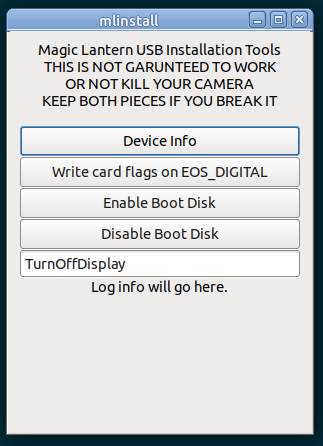
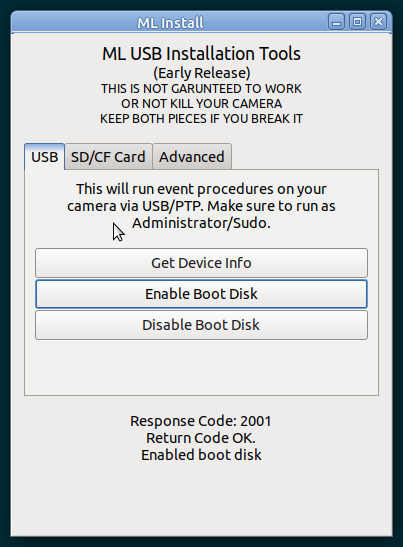
Add some text and update screenshot

Changed region(s): [[0.0, 0.0, 0.9907, 0.991], [0.3096, 0.7578, 0.6811, 0.8453]]

diff --git a/gtk.c b/gtk.c
@@ -149,6 +149,7 @@ static void deviceinfo(GtkWidget *widget, gpointer data)
 
 	logprint(buffer);
 
+	// Test model detector
 	printf("model_get() = %d\n", model_get(info.Model));
 
 	close_camera(&ptp_usb, &params, dev);
@@ -262,6 +263,14 @@ int main(int argc, char *argv[])
 	gtk_container_set_border_width(GTK_CONTAINER(grid), 10);
 	gtk_widget_show(grid);
 	order = 0;
+
+	label = gtk_label_new(
+		"This will run event procedures on your\n"
+		"camera via USB/PTP. Make sure to run as\n"
+		"Administrator/Sudo.\n");
+	gtk_label_set_justify(GTK_LABEL(label), GTK_JUSTIFY_CENTER);
+	gtk_grid_attach(GTK_GRID(grid), label, 0, order++, 1, 1);
+	gtk_widget_show(label);
 
 	MENU_ADD_BUTTON("Get Device Info", deviceinfo, "Show Model, Firmware Version, etc.")
 
